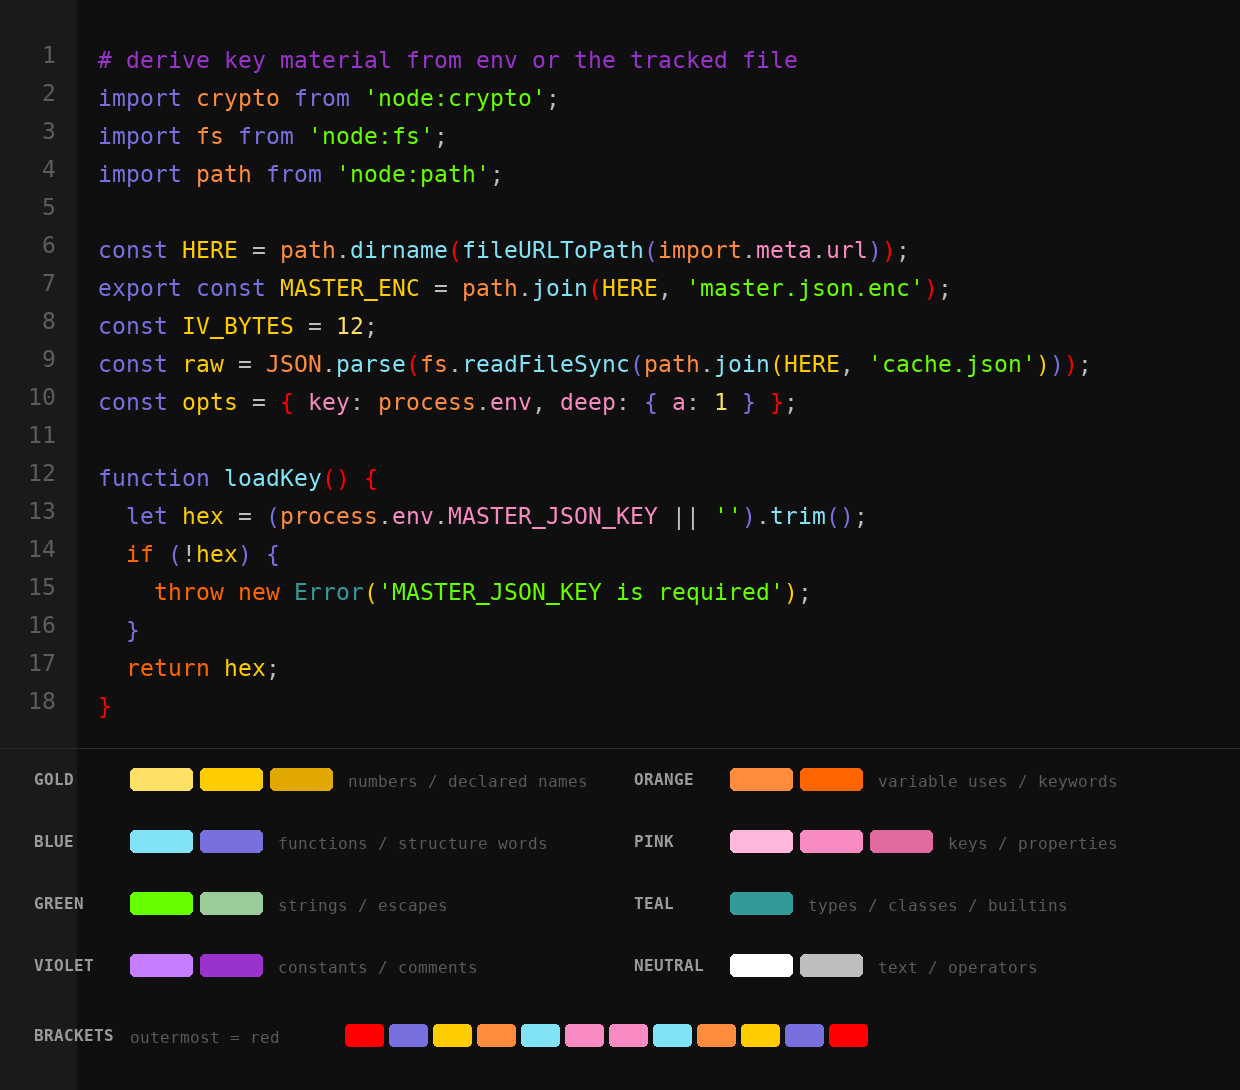
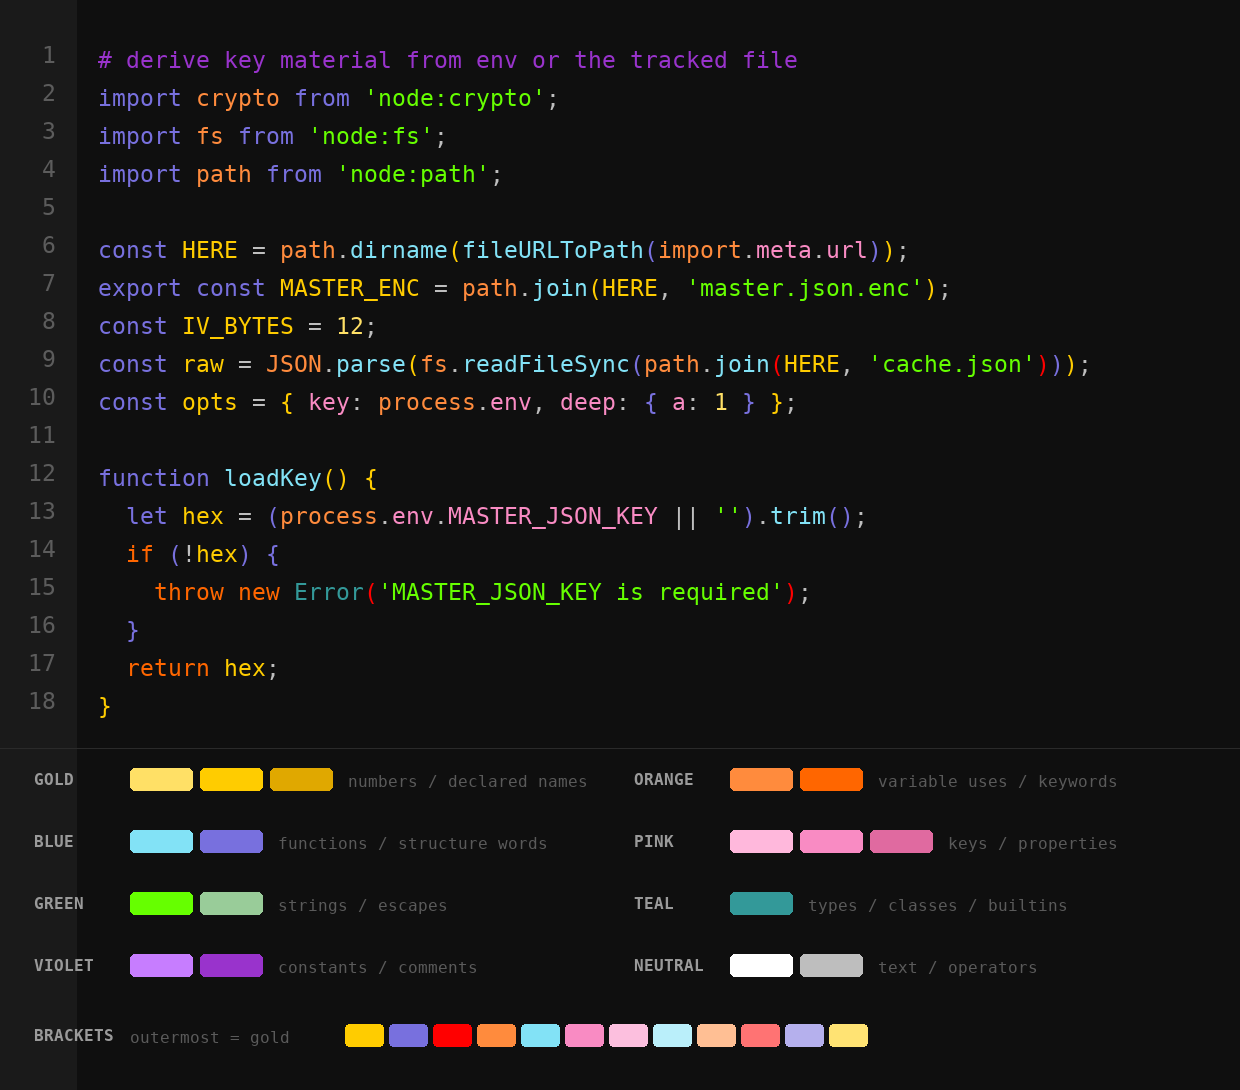
Rainbow brackets: gold outermost, tinted inner rungs
Red and gold swapped in the ladder, and levels 6-11 are now 45% tints of
levels 5-0 so mirrored steps read as distinct pairs.

Changed region(s): [[0.4903, 0.9358, 0.7048, 0.967], [0.3371, 0.9358, 0.3984, 0.967], [0.2758, 0.9358, 0.3065, 0.967]]

diff --git a/acode-theme/main.js b/acode-theme/main.js
@@ -85,18 +85,18 @@
      pink · pink · sky · orange · gold · blue · red  (12 levels, cycled).
      ------------------------------------------------------------------ */
   var BRACKET_LADDER = [
-    "#FF0000", // 0  outermost  red
-    "#7870DE", // 1  const blue
-    "#FFCC00", // 2  gold
-    "#FF8B3D", // 3  light orange
-    "#82E2F6", // 4  sky blue
-    "#F98BC3", // 5  pink
-    "#F98BC3", // 6  pink
-    "#82E2F6", // 7  sky blue
-    "#FF8B3D", // 8  light orange
-    "#FFCC00", // 9  gold
-    "#7870DE", // 10 const blue
-    "#FF0000", // 11 red
+    "#FFCC00", //  0  gold
+    "#7870DE", //  1  indigo
+    "#FF0000", //  2  red
+    "#FF8B3D", //  3  orange
+    "#82E2F6", //  4  sky
+    "#F98BC3", //  5  pink
+    "#FCBFDE", //  6  pink tint
+    "#BAEFFA", //  7  sky tint
+    "#FFBF94", //  8  orange tint
+    "#FF7373", //  9  red tint
+    "#B5B0ED", // 10  indigo tint
+    "#FFE373", // 11  gold tint
   ];
 
   var SKIP_NODE = /string|comment|regexp|template|character/i;

diff --git a/acode-theme/render_preview.py b/acode-theme/render_preview.py
@@ -67,8 +67,10 @@ CODE = [
 ]
 
 RAINBOW = [
-    "#FF0000", "#7870DE", "#FFCC00", "#FF8B3D", "#82E2F6", "#F98BC3",
-    "#F98BC3", "#82E2F6", "#FF8B3D", "#FFCC00", "#7870DE", "#FF0000",
+    "#FFCC00", "#7870DE", "#FF0000",
+    "#FF8B3D", "#82E2F6", "#F98BC3",
+    "#FCBFDE", "#BAEFFA", "#FFBF94",
+    "#FF7373", "#B5B0ED", "#FFE373",
 ]
 
 
@@ -158,7 +160,7 @@ for idx, (name, colors, sub) in enumerate(FAMILIES):
 # rainbow bracket ladder
 ry = ly + 4 * 62 + 8
 d.text((34, ry), "BRACKETS", font=SMB, fill="#9A9A9A")
-d.text((34 + 96, ry + 2), "outermost = red", font=SM, fill="#5A5A5A")
+d.text((34 + 96, ry + 2), "outermost = gold", font=SM, fill="#5A5A5A")
 bx = 34 + 96 + 215
 for c in RAINBOW:
     d.rounded_rectangle([bx, ry - 2, bx + 38, ry + 20], radius=4, fill=c)
